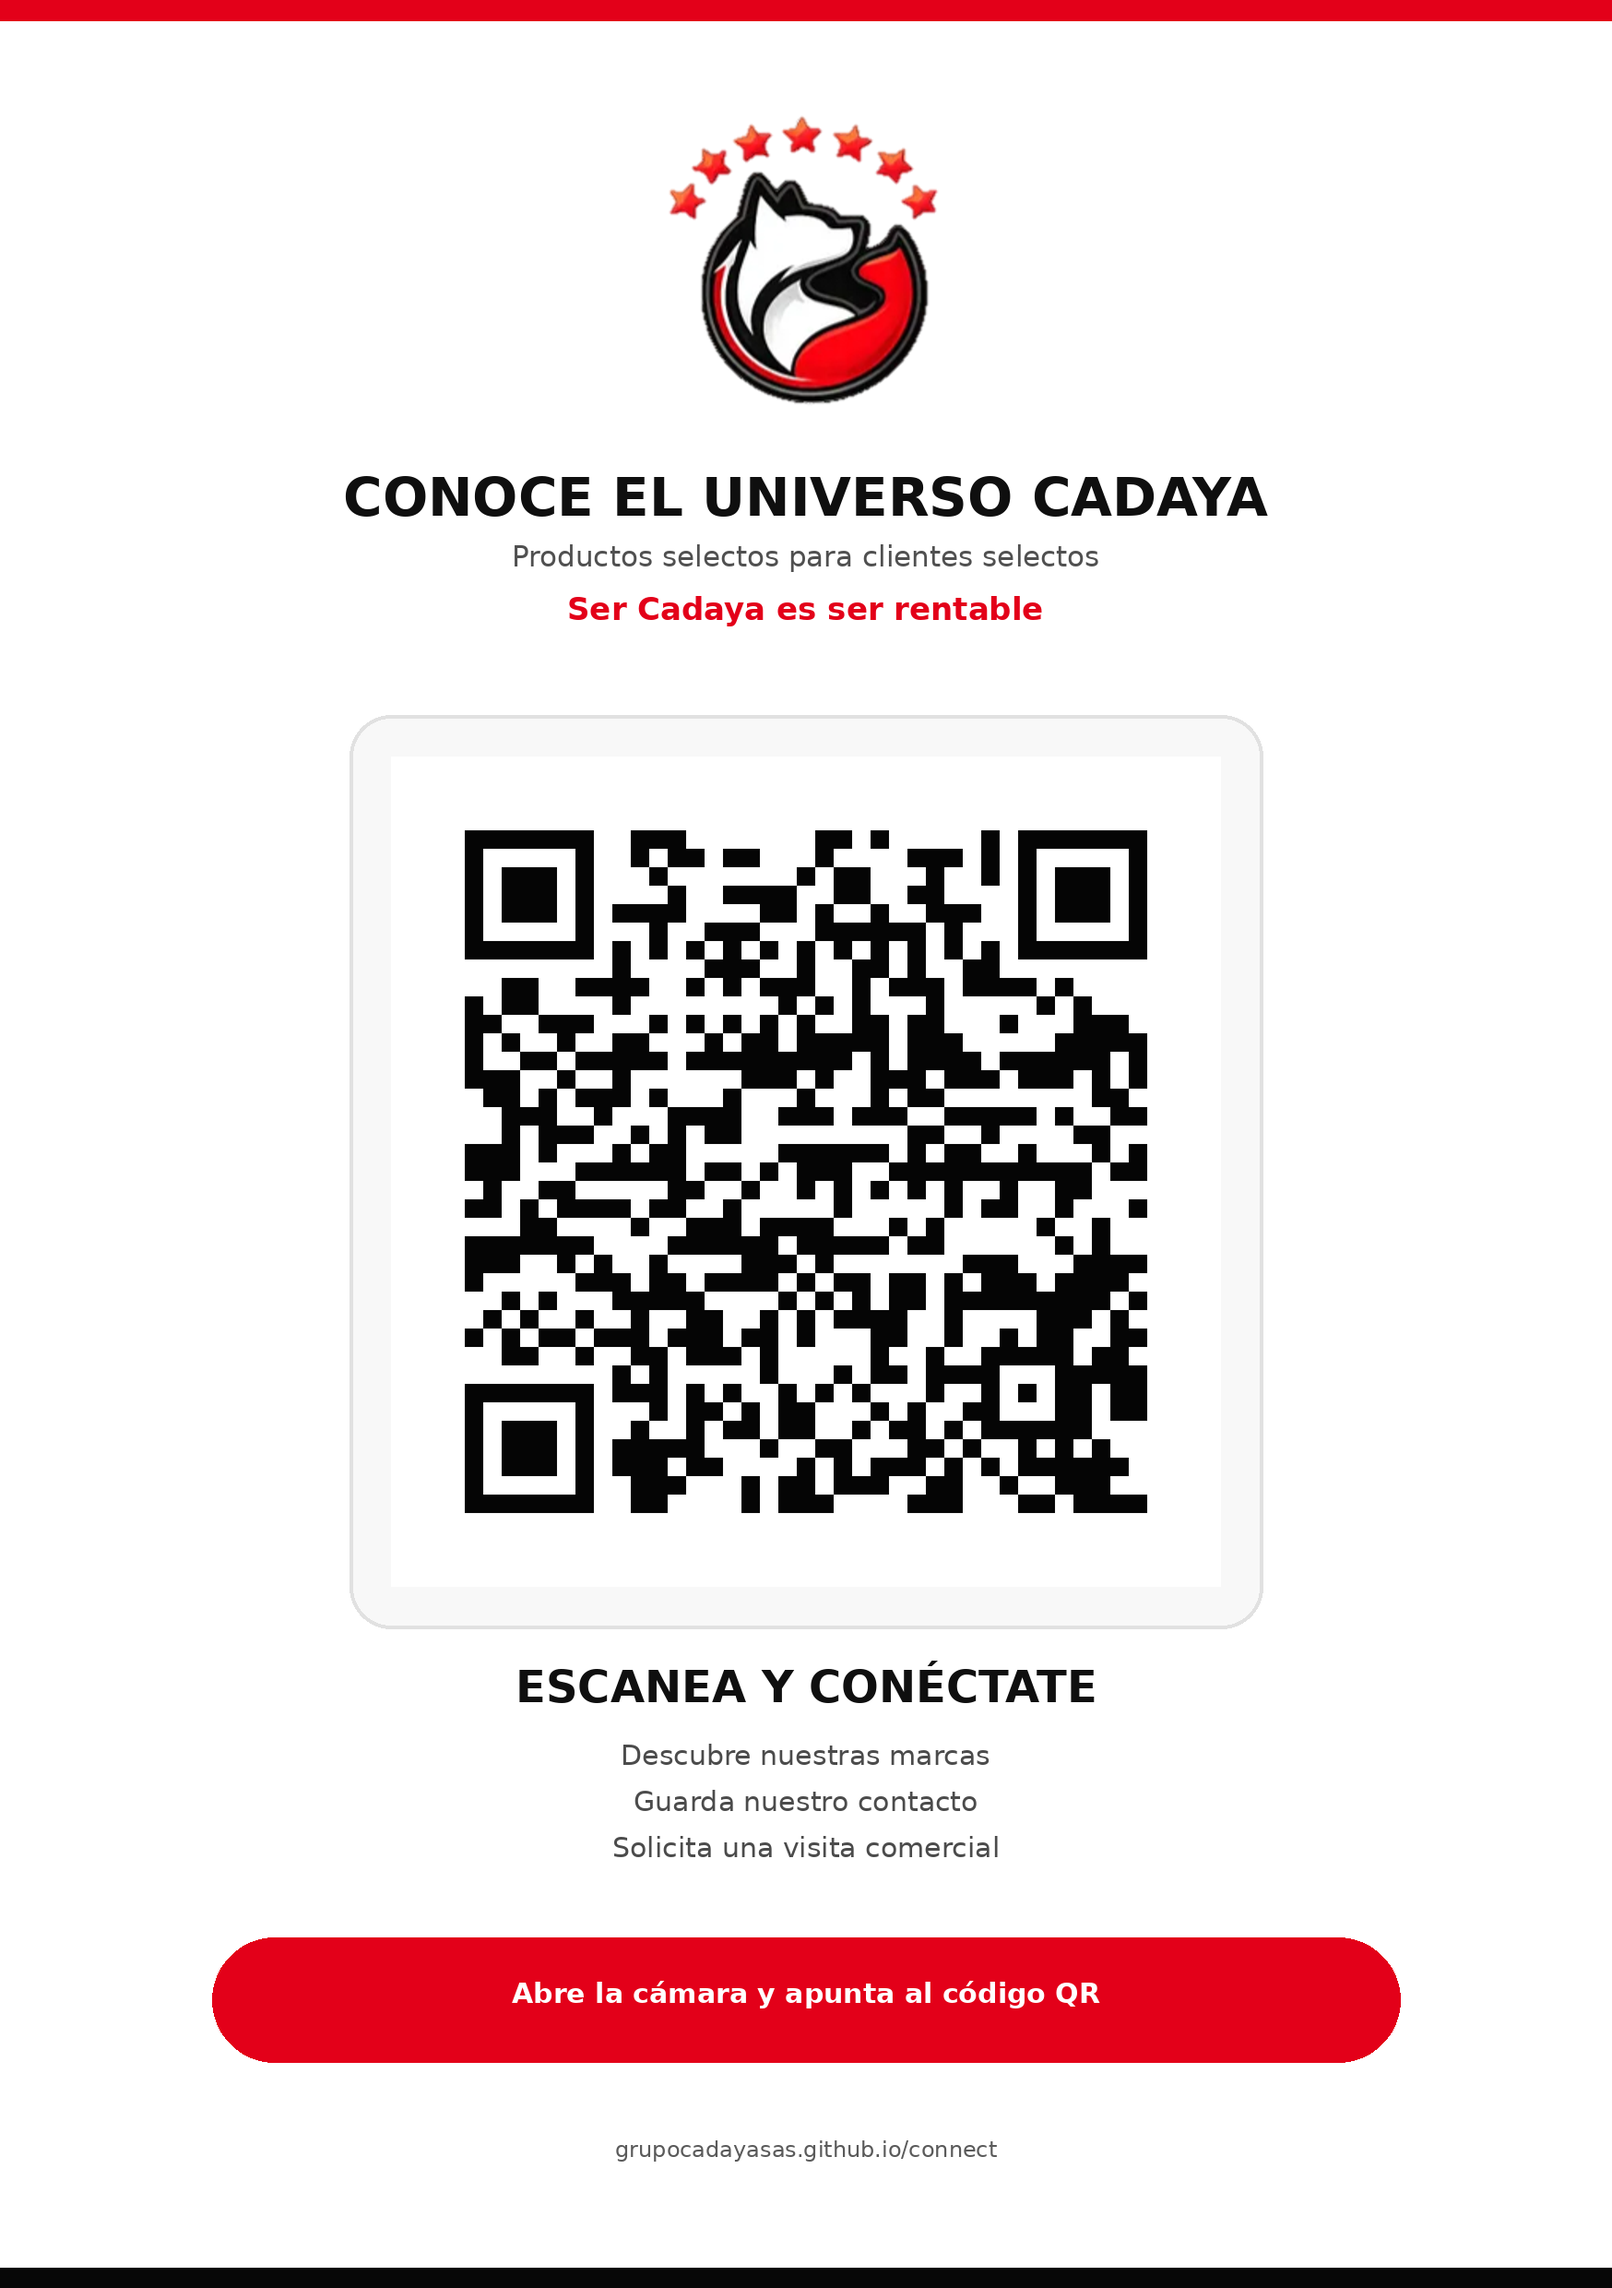
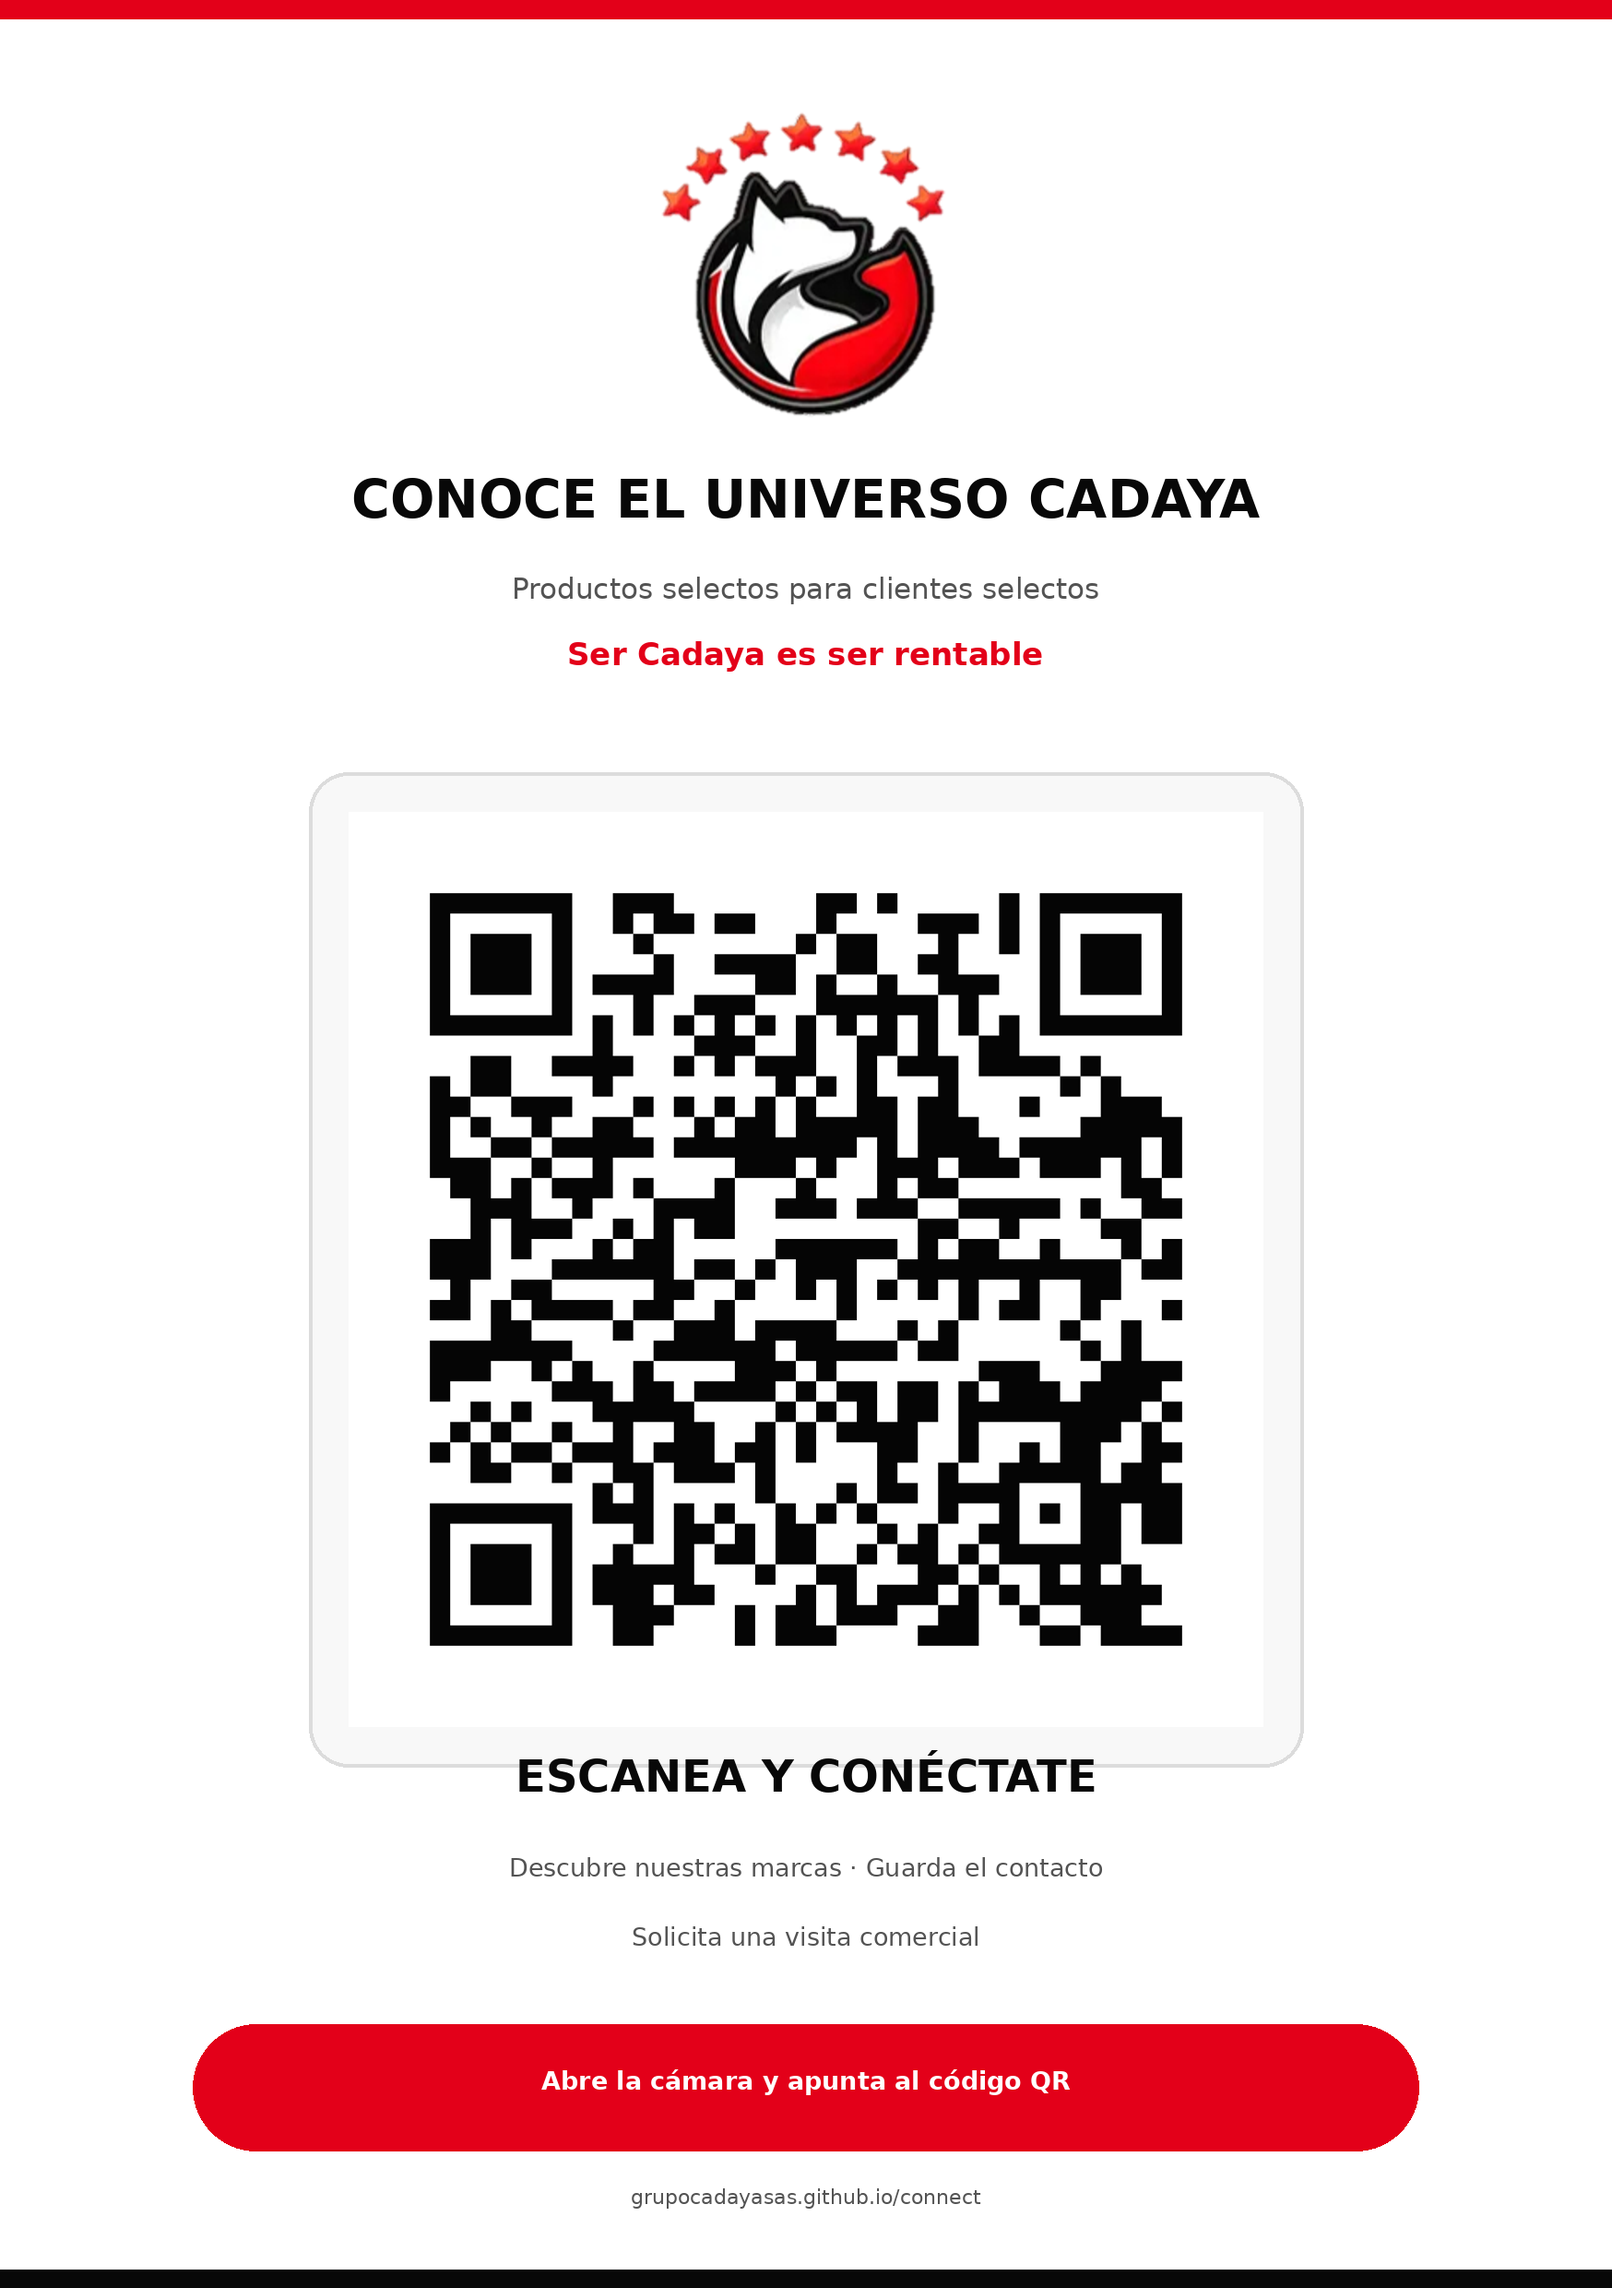
ok

Changed region(s): [[0.1236, 0.1863, 0.8959, 0.9625], [0.4016, 0.031, 0.587, 0.1863]]

diff --git a/index.html b/index.html
@@ -26,7 +26,7 @@
   <link rel="preconnect" href="https://fonts.googleapis.com">
   <link rel="preconnect" href="https://fonts.gstatic.com" crossorigin>
   <link href="https://fonts.googleapis.com/css2?family=Montserrat:wght@400;500;600;700;800;900&family=Playfair+Display:ital,wght@1,600&display=swap" rel="stylesheet">
-  <link rel="stylesheet" href="styles-cadaya-v3.css?v=20260710-9" />
+  <link rel="stylesheet" href="styles-cadaya-v3.css?v=20260710-10" />
 </head>
 <body>
   <div class="intro-screen" id="introScreen" aria-hidden="true">
@@ -289,7 +289,7 @@
         </div>
 
         <form id="visitForm" class="visit-form reveal" novalidate>
-<div class="lead-form-head"><span>Lead Center CADAYA</span><strong>Solicitud de visita comercial</strong><small>La información llegará directamente a Gerencia Comercial.</small></div>
+<div class="lead-form-head"><span>Lead Center CADAYA</span><strong>Solicitud de visita comercial</strong><small>La información llegará directamente al correo de Gerencia Comercial.</small></div>
 <input type="text" id="honeyField" class="honey-field" tabindex="-1" autocomplete="off" aria-hidden="true">
 <div class="field-grid">
 <label>Nombre completo *<input id="nombre" required autocomplete="name" placeholder="Tu nombre"></label>
@@ -310,8 +310,8 @@
 <label>Comentarios<textarea id="comentarios" rows="4" placeholder="Cuéntanos brevemente cómo podemos ayudarte"></textarea></label>
 <label class="check"><input id="autorizacion" type="checkbox" required><span>Autorizo el uso de mis datos para ser contactado por GRUPO CADAYA SAS.</span></label>
 <div class="lead-meta"><span>🔒 Información segura</span><span>⚡ Respuesta prioritaria</span></div>
-<button id="submitLead" type="submit"><span class="button-label">Solicitar visita comercial</span><span class="button-loader" aria-hidden="true"></span></button>
-<p class="form-status" id="formStatus" role="status" aria-live="polite"></p>
+<button id="submitLead" type="submit"><span class="button-label">Enviar solicitud comercial</span><span class="button-loader" aria-hidden="true"></span></button>
+<p class="form-status" id="formStatus" role="status" aria-live="polite"></p><p class="form-fallback">También puedes escribir a <a href="mailto:gerenciacomercial@grupocadayasas.com">gerenciacomercial@grupocadayasas.com</a></p>
 </form>
       </div>
     </section>
@@ -324,7 +324,7 @@
 <button id="successClose">Continuar explorando</button></section></div><footer>
       <div class="shell footer-grid">
         <div class="qr-card">
-          <img src="assets/qr-cadaya.png" alt="Código QR">
+          <img src="assets/qr-cadaya-definitivo.png?v=20260710-10" alt="Código QR">
           <div><strong>Escanea y conéctate</strong><span>Lleva nuestra información en tu celular.</span></div>
         </div>
 
@@ -352,6 +352,6 @@
     </a>
   </nav>
 
-  <script src="app-cadaya-v3.js?v=20260710-9"></script>
+  <script src="app-cadaya-v3.js?v=20260710-10"></script>
 </body>
 </html>

diff --git a/app-cadaya-v3.js b/app-cadaya-v3.js
@@ -117,7 +117,9 @@ leadForm?.addEventListener("submit", async (event)=>{
     Comentarios:document.getElementById("comentarios").value.trim()||"Sin comentarios",
     _subject:`Nueva solicitud comercial ${ref} - CADAYA CONNECT`,
     _template:"table",
-    _captcha:"false"
+    _captcha:"false",
+    _autoresponse:"Hemos recibido tu solicitud de visita comercial. Un asesor de GRUPO CADAYA SAS se comunicará contigo muy pronto. Productos selectos para clientes selectos.",
+    Origen:"CADAYA CONNECT - Código QR"
   };
   try{
     setSubmitting(true);formStatus.textContent="Enviando solicitud…";
@@ -127,7 +129,7 @@ leadForm?.addEventListener("submit", async (event)=>{
     leadForm.reset();formStatus.textContent="";leadReference.textContent=ref;
     successModal.classList.add("show");successModal.setAttribute("aria-hidden","false");
   }catch(e){
-    formStatus.textContent="No pudimos enviar la solicitud. Intenta nuevamente o contáctanos por WhatsApp.";
+    formStatus.innerHTML='No pudimos enviar la solicitud. Intenta nuevamente o escríbenos a <a href="mailto:gerenciacomercial@grupocadayasas.com">gerenciacomercial@grupocadayasas.com</a>.';
     formStatus.classList.add("error");
   }finally{setSubmitting(false);}
 });

diff --git a/styles-cadaya-v3.css b/styles-cadaya-v3.css
@@ -1657,3 +1657,30 @@ body {
 .lead-reference{margin:20px 0;padding:12px;border-radius:14px;background:rgba(255,255,255,.07);color:#ccc;font-size:12px}.lead-reference strong{color:#fff;font-size:15px}
 #successClose{width:100%;min-height:50px;border:0;border-radius:999px;background:#fff;color:#111;font:inherit;font-weight:900;cursor:pointer}
 @keyframes cadayaSpin{to{transform:rotate(360deg)}}@media(max-width:767px){.lead-form-head{text-align:center}.lead-form-head strong{font-size:20px}.interest-grid{grid-template-columns:repeat(2,1fr)}.success-card{padding:26px 18px;border-radius:24px}.success-card h2{font-size:23px}}
+
+
+/* V10 — CIERRE COMERCIAL Y PIEZAS DE IMPRESIÓN */
+.form-fallback {
+  margin: 8px 0 0;
+  color: #777;
+  font-size: 11px;
+  line-height: 1.45;
+  text-align: center;
+}
+
+.form-fallback a,
+.form-status a {
+  color: var(--cadaya-red);
+  font-weight: 800;
+  overflow-wrap: anywhere;
+}
+
+.qr-card img {
+  image-rendering: crisp-edges;
+}
+
+@media (max-width: 767px) {
+  .form-fallback {
+    font-size: 10px;
+  }
+}

diff --git a/sw.js b/sw.js
@@ -1,9 +1,9 @@
-const CACHE_NAME = "cadaya-connect-v9";
+const CACHE_NAME = "cadaya-connect-v10";
 const ASSETS = [
   "./",
   "./index.html",
-  "./styles-cadaya-v3.css?v=20260710-9",
-  "./app-cadaya-v3.js?v=20260710-9",
+  "./styles-cadaya-v3.css?v=20260710-10",
+  "./app-cadaya-v3.js?v=20260710-10",
   "./manifest.webmanifest",
   "./grupo-cadaya.vcf",
   "./assets/logo-cadaya.png",
@@ -12,7 +12,8 @@ const ASSETS = [
   "./assets/cannabis-product.jpg",
   "./assets/icon-192.png",
   "./assets/icon-512.png",
-  "./assets/og-cadaya.jpg"
+  "./assets/og-cadaya.jpg",
+  "./assets/qr-cadaya-definitivo.png"
 ];
 
 self.addEventListener("install", event => {

diff --git a/README.md b/README.md
@@ -1,18 +1,24 @@
-# CADAYA CONNECT — SPRINTS V9
+# CADAYA CONNECT — SPRINTS V10
 
-Implementado:
-- Lead Center premium.
-- Envío por correo a gerenciacomercial@grupocadayasas.com.
-- Referencia automática CAD por solicitud.
-- Confirmación premium.
-- QR definitivo.
-- Pieza A5 a 300 DPI para acrílico.
-- PWA, Open Graph, caché y optimización móvil conservados.
+## Landing
+- Lead Center por correo.
+- Respuesta automática al visitante.
+- Referencia CAD por solicitud.
+- Correo alternativo visible si falla el servicio.
+- QR interno actualizado a la URL definitiva.
+- PWA, Open Graph y caché V10.
 
-IMPORTANTE:
-La primera solicitud generará un correo de activación de FormSubmit en
-gerenciacomercial@grupocadayasas.com. Debes confirmar ese correo una sola vez.
-Después, las solicitudes llegarán automáticamente.
+## Material para impresión
+- Acrilico_CADAYA_A5_300DPI.png
+- Acrilico_CADAYA_Media_Carta_300DPI.png
+- assets/qr-cadaya-definitivo.png
 
-URL:
+## Activación obligatoria del formulario
+1. Publica esta versión en GitHub Pages.
+2. Envía una solicitud de prueba.
+3. Revisa gerenciacomercial@grupocadayasas.com.
+4. Confirma el correo de activación enviado por FormSubmit.
+5. Envía una segunda prueba para verificar la recepción.
+
+URL definitiva:
 https://grupocadayasas.github.io/connect/
